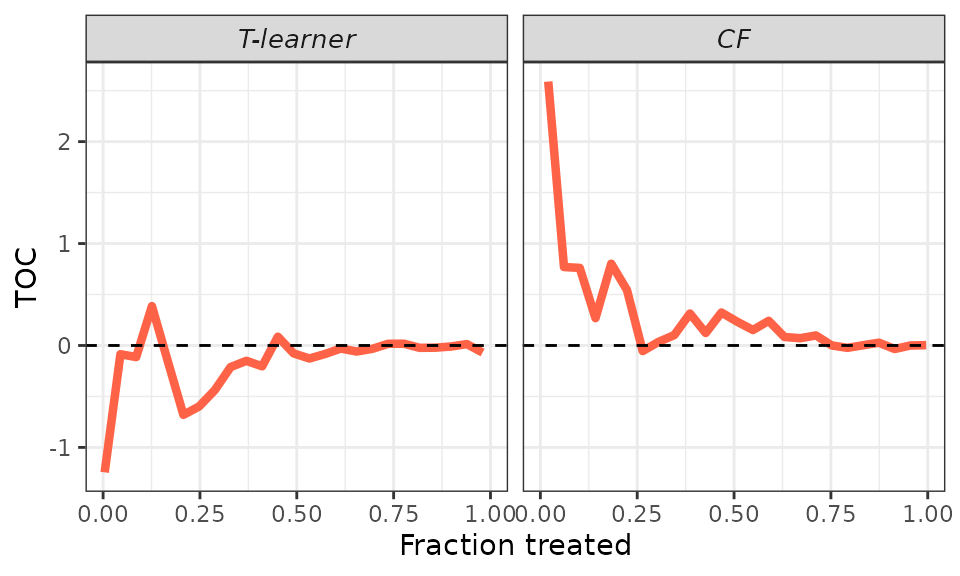
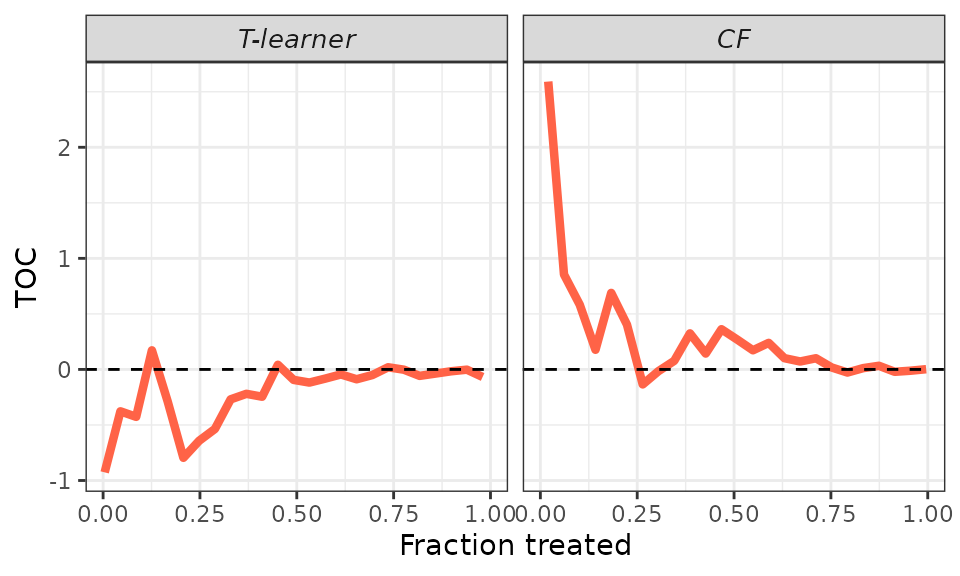
Deploying to gh-pages from @ riccardo-df/valiCATE@f07f53d960b75a677a96e6b9d32c6539280ba8db 🚀

diff --git a/reference/valiCATE.html b/reference/valiCATE.html
@@ -83,6 +83,7 @@ the estimated CATEs.</p>
 <span>  n_groups <span class="op">=</span> <span class="fl">5</span>,</span>
 <span>  beneficial <span class="op">=</span> <span class="cn">TRUE</span>,</span>
 <span>  n_boot <span class="op">=</span> <span class="fl">200</span>,</span>
+<span>  crossfit_dr <span class="op">=</span> <span class="cn">TRUE</span>,</span>
 <span>  verbose <span class="op">=</span> <span class="cn">TRUE</span></span>
 <span><span class="op">)</span></span></code></pre></div>
     </div>
@@ -155,6 +156,10 @@ the estimated CATEs.</p>
 <dd><p>Number of bootstrap replications to estimate the standard error of the RATE estimates.</p></dd>
 
 
+<dt id="arg-crossfit-dr">crossfit_dr<a class="anchor" aria-label="anchor" href="#arg-crossfit-dr"></a></dt>
+<dd><p>Logical, whether the doubly-robust scores should be cross-fitted in the validation sample. If <code>FALSE</code>, the scores are constructed using the out-of-sample predictions from the nuisance models trained in the training sample.</p></dd>
+
+
 <dt id="arg-verbose">verbose<a class="anchor" aria-label="anchor" href="#arg-verbose"></a></dt>
 <dd><p>Logical, set to FALSE to prevent the function from printing the progresses.</p></dd>
 
@@ -167,23 +172,24 @@ the estimated CATEs.</p>
     <h2>Details</h2>
     <p>The user must provide observations on the outcomes, the treatment status, and the covariates of units in the training and validation samples separately
 using the first six arguments. The user must also provide a named list storing CATE predictions on the validation sample produced from different models (the Example section below shows how to construct such a list).
-Be careful, models must be estimated using only the training sample to achieve valid inference.<br></p>
+Be careful, CATE models must be estimated using only the training sample to achieve valid inference.<br></p>
 <p>The <code>valiCATE</code> function allows the implementation of three different strategies for BLP and GATES identification and estimation: a) Weighted Residuals (WR), Horwitz-Thompson (HT), and
 Augmented Inverse-Probability Weighting (AIPW). The user can choose their preferred strategies by controlling the <code>strategies</code> argument. This has no impact on RATEs estimation. GATES are also
-always estimated using a nonparametric approach.<br></p>
+always estimated using an additional nonparametric approach.<br></p>
 <p>Most of the BLP and GATES estimation strategies involve fitting a suitable linear model. For each model, there exist various sets of constructed covariates that one can add to reduce the variance of
 the estimation. The user can choose whether to add these additional covariates by controlling the <code>denoising</code> argument (check the online
 <a href="https://riccardo-df.github.io/valiCATE/articles/denoising.html">denoising vignette</a> for details). This has no impact on RATEs estimation and on the results from the nonparametric GATES estimation strategy.</p>
 <p>The constructed covariates depend on particular nuisance functions, e.g., propensity score and conditional mean of the outcome. The user can supply predictions on the validation sample of these functions
-by using the  optional arguments <code>pscore_val</code>, <code>mu_val</code>, <code>mu0_val</code>, and <code>mu1_val</code>. Be careful, as these predictions must be produced by models estimated using only the training sample. If not
-provided by the user, these functions are estimated internally  via honest <code><a href="https://rdrr.io/pkg/grf/man/regression_forest.html" class="external-link">regression_forest</a></code>s using only the training sample. <br></p>
+by using the  optional arguments <code>pscore_val</code>, <code>mu_val</code>, <code>mu0_val</code>, and <code>mu1_val</code>. Be careful, as these predictions must be produced by models fitted using only the training sample. If not
+provided by the user, these functions are estimated internally via honest <code><a href="https://rdrr.io/pkg/grf/man/regression_forest.html" class="external-link">regression_forest</a></code>s using only the training sample. <br></p>
 <p>For the linear models, standard errors are estimated using the Eicker-Huber-White estimator. Under our careful sample splitting procedure, these standard errors can then used to test various
-hypotheses of effect heterogeneity. For the GATES, we focus on three distinct hypotheses: whether all GATES are equal to each other, whether the largest and the smallest GATES are different from each other,
-and whether the differences in the GATES across all pairs of groups are zero (for the last test, we adjust p-values to account for multiple hypotheses testing using Holm's procedure and report the median of
-the adjusted p-values). The nonparametric  approach tests only the first of these hypotheses. Check the <a href="https://riccardo-df.github.io/valiCATE/articles/hypotheses-testing.html">hypotheses testing vignette</a>
+hypotheses of effect heterogeneity. For the GATES, we focus on two distinct hypotheses: whether all GATES are equal to each other, and whether the largest and the smallest GATES are different from each other.
+The nonparametric approach tests only the first of these hypotheses. Check the <a href="https://riccardo-df.github.io/valiCATE/articles/hypotheses-testing.html">hypotheses testing vignette</a>
 for details.<br></p>
-<p>To estimate the BLP and GATES using the AIPW strategy, doubly-robust scores are estimated internally using the validation sample via 5-fold cross fitting and honest regression forests (see the
-<code><a href="https://riccardo-df.github.io/aggTrees/reference/dr_scores.html" class="external-link">dr_scores</a></code> function for details). The same doubly-robust scores are also used to estimate the RATEs.<br></p>
+<p>To estimate the BLP and GATES using the AIPW strategy, doubly-robust scores are estimated internally in one of two ways: if <code>crossfit_dr</code> is <code>TRUE</code>, we use
+the validation sample and 5-fold cross fitting with honest regression forests (see the
+<code><a href="https://riccardo-df.github.io/aggTrees/reference/dr_scores.html" class="external-link">dr_scores</a></code> function for details), while if <code>crossfit_dr</code> is <code>FALSE</code>, we use the out-of-sample predictions from the nuisance models trained
+using the training sample. The doubly-robust scores are also used to estimate the RATEs.<br></p>
 <p>Groups for the GATES analysis are constructed by cutting the distribution of <code>cates_val</code> into <code>n_groups</code> quantiles. If this leads to one or more groups composed of only treated or only control units,
 the function raises an error. Possible solutions include: a) change your original training-validation sample split; b) increase the fraction of observations allocated to the validation sample.<br></p>
 <p>The <code>valiCATE</code> function estimates two different RATEs: AUTOC and QINI coefficients. Sample-averaging estimators are employed. Standard errors are estimated by the standard deviation of the bootstrap
@@ -251,7 +257,7 @@ estimates obtained using the half-sample bootstrap.<br></p>
 <span class="r-in"><span><span class="va">validation</span> <span class="op">&lt;-</span> <span class="fu">valiCATE</span><span class="op">(</span><span class="va">Y_tr</span>, <span class="va">Y_val</span>, <span class="va">D_tr</span>, <span class="va">D_val</span>, <span class="va">X_tr</span>, <span class="va">X_val</span>, <span class="va">cates_val</span>, </span></span>
 <span class="r-in"><span>                        strategies <span class="op">=</span> <span class="va">strategies</span>, denoising <span class="op">=</span> <span class="va">denoising</span>, </span></span>
 <span class="r-in"><span>                        pscore_val <span class="op">=</span> <span class="va">pscore_val</span><span class="op">)</span></span></span>
-<span class="r-out co"><span class="r-pr">#&gt;</span> Estimating nuisance functions; </span>
+<span class="r-out co"><span class="r-pr">#&gt;</span> Estimating nuisance functions and DR scores; </span>
 <span class="r-out co"><span class="r-pr">#&gt;</span> BLP estimation; </span>
 <span class="r-out co"><span class="r-pr">#&gt;</span> GATES estimation; </span>
 <span class="r-out co"><span class="r-pr">#&gt;</span> RATE estimation; </span>
